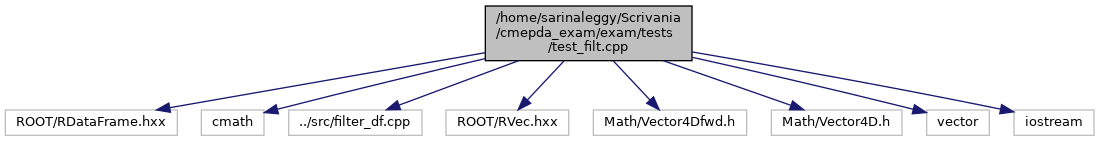
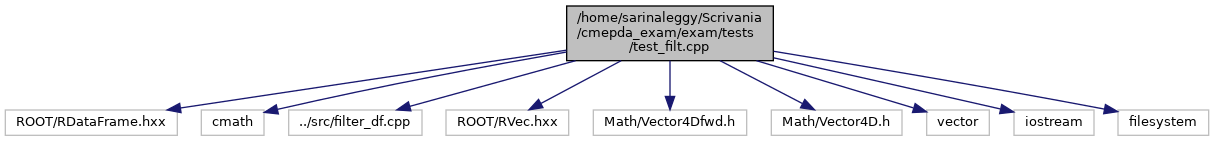
Add files via upload

diff --git a/testing_8py.html b/testing_8py.html
@@ -117,12 +117,12 @@ Variables</h2></td></tr>
 <tr class="memitem:a086a557397f0a26dc6e994aa295721ed"><td class="memItemLeft" align="right" valign="top">string&#160;</td><td class="memItemRight" valign="bottom"><a class="el" href="namespacetesting.html#a086a557397f0a26dc6e994aa295721ed">testing.filepath_MC</a> = &quot;&quot;</td></tr>
 <tr class="memdesc:a086a557397f0a26dc6e994aa295721ed"><td class="mdescLeft">&#160;</td><td class="mdescRight">the filepath of the MC datas to filter  <a href="namespacetesting.html#a086a557397f0a26dc6e994aa295721ed">More...</a><br /></td></tr>
 <tr class="separator:a086a557397f0a26dc6e994aa295721ed"><td class="memSeparator" colspan="2">&#160;</td></tr>
-<tr class="memitem:a0f3fea9abece3e532b90ca426b98b32e"><td class="memItemLeft" align="right" valign="top">string&#160;</td><td class="memItemRight" valign="bottom"><a class="el" href="namespacetesting.html#a0f3fea9abece3e532b90ca426b98b32e">testing.filepath_MC_fil</a> = &quot;&quot;</td></tr>
-<tr class="memdesc:a0f3fea9abece3e532b90ca426b98b32e"><td class="mdescLeft">&#160;</td><td class="mdescRight">the filepath of the MC filtered datas  <a href="namespacetesting.html#a0f3fea9abece3e532b90ca426b98b32e">More...</a><br /></td></tr>
-<tr class="separator:a0f3fea9abece3e532b90ca426b98b32e"><td class="memSeparator" colspan="2">&#160;</td></tr>
-<tr class="memitem:af0ed60cbb464b8539446f8e9a204c663"><td class="memItemLeft" align="right" valign="top">string&#160;</td><td class="memItemRight" valign="bottom"><a class="el" href="namespacetesting.html#af0ed60cbb464b8539446f8e9a204c663">testing.filepath_datas_fil</a> = &quot;&quot;</td></tr>
-<tr class="memdesc:af0ed60cbb464b8539446f8e9a204c663"><td class="mdescLeft">&#160;</td><td class="mdescRight">the filepath of the Run filtered datas  <a href="namespacetesting.html#af0ed60cbb464b8539446f8e9a204c663">More...</a><br /></td></tr>
-<tr class="separator:af0ed60cbb464b8539446f8e9a204c663"><td class="memSeparator" colspan="2">&#160;</td></tr>
+<tr class="memitem:a548220428ce6a715138125d7fa61c197"><td class="memItemLeft" align="right" valign="top">string&#160;</td><td class="memItemRight" valign="bottom"><a class="el" href="namespacetesting.html#a548220428ce6a715138125d7fa61c197">testing.filename_MC_fil</a> = &quot;&quot;</td></tr>
+<tr class="memdesc:a548220428ce6a715138125d7fa61c197"><td class="mdescLeft">&#160;</td><td class="mdescRight">the filename of the MC filtered datas  <a href="namespacetesting.html#a548220428ce6a715138125d7fa61c197">More...</a><br /></td></tr>
+<tr class="separator:a548220428ce6a715138125d7fa61c197"><td class="memSeparator" colspan="2">&#160;</td></tr>
+<tr class="memitem:ab4c983166e7a0246a401a97b238f707e"><td class="memItemLeft" align="right" valign="top">string&#160;</td><td class="memItemRight" valign="bottom"><a class="el" href="namespacetesting.html#ab4c983166e7a0246a401a97b238f707e">testing.filename_datas_fil</a> = &quot;&quot;</td></tr>
+<tr class="memdesc:ab4c983166e7a0246a401a97b238f707e"><td class="mdescLeft">&#160;</td><td class="mdescRight">the filename of the Run filtered datas  <a href="namespacetesting.html#ab4c983166e7a0246a401a97b238f707e">More...</a><br /></td></tr>
+<tr class="separator:ab4c983166e7a0246a401a97b238f707e"><td class="memSeparator" colspan="2">&#160;</td></tr>
 <tr class="memitem:a8ecd6a1ec326d816262fc904f3413245"><td class="memItemLeft" align="right" valign="top">&#160;</td><td class="memItemRight" valign="bottom"><a class="el" href="namespacetesting.html#a8ecd6a1ec326d816262fc904f3413245">testing.choice</a> = input('Do you want to filter your datas? [y/n]')</td></tr>
 <tr class="memdesc:a8ecd6a1ec326d816262fc904f3413245"><td class="mdescLeft">&#160;</td><td class="mdescRight">choice make choosing if the user wants to filter datas or not it can be 'y' if you want to filter your dataframe or 'n' if you don't  <a href="namespacetesting.html#a8ecd6a1ec326d816262fc904f3413245">More...</a><br /></td></tr>
 <tr class="separator:a8ecd6a1ec326d816262fc904f3413245"><td class="memSeparator" colspan="2">&#160;</td></tr>

diff --git a/test__filt_8cpp.html b/test__filt_8cpp.html
@@ -107,12 +107,13 @@ $(document).ready(function(){initNavTree('test__filt_8cpp.html',''); initResizab
 <code>#include &lt;Math/Vector4D.h&gt;</code><br />
 <code>#include &lt;vector&gt;</code><br />
 <code>#include &lt;iostream&gt;</code><br />
+<code>#include &lt;filesystem&gt;</code><br />
 </div><div class="textblock"><div class="dynheader">
 Include dependency graph for test_filt.cpp:</div>
 <div class="dyncontent">
 <div class="center"><img src="test__filt_8cpp__incl.png" border="0" usemap="#a_2home_2sarinaleggy_2Scrivania_2cmepda__exam_2exam_2tests_2test__filt_8cpp" alt=""/></div>
 <map name="a_2home_2sarinaleggy_2Scrivania_2cmepda__exam_2exam_2tests_2test__filt_8cpp" id="a_2home_2sarinaleggy_2Scrivania_2cmepda__exam_2exam_2tests_2test__filt_8cpp">
-<area shape="rect" title="Testing if the filter function works." alt="" coords="485,5,692,61"/>
+<area shape="rect" title="Testing if the filter function works." alt="" coords="567,5,773,61"/>
 <area shape="rect" title=" " alt="" coords="5,109,177,136"/>
 <area shape="rect" title=" " alt="" coords="201,109,264,136"/>
 <area shape="rect" title=" " alt="" coords="289,109,422,136"/>
@@ -121,6 +122,7 @@ Include dependency graph for test_filt.cpp:</div>
 <area shape="rect" title=" " alt="" coords="771,109,902,136"/>
 <area shape="rect" title=" " alt="" coords="927,109,989,136"/>
 <area shape="rect" title=" " alt="" coords="1014,109,1094,136"/>
+<area shape="rect" title=" " alt="" coords="1118,109,1209,136"/>
 </map>
 </div>
 </div><table class="memberdecls">

diff --git a/testing_8py.js b/testing_8py.js
@@ -2,9 +2,9 @@ var testing_8py =
 [
     [ "choice", "testing_8py.html#a8ecd6a1ec326d816262fc904f3413245", null ],
     [ "fil", "testing_8py.html#a82ef2517965f341ef23335cc783dbc62", null ],
+    [ "filename_datas_fil", "testing_8py.html#ab4c983166e7a0246a401a97b238f707e", null ],
+    [ "filename_MC_fil", "testing_8py.html#a548220428ce6a715138125d7fa61c197", null ],
     [ "filepath_datas", "testing_8py.html#abf0165e40096fac3fa89b2d5af9ad276", null ],
-    [ "filepath_datas_fil", "testing_8py.html#af0ed60cbb464b8539446f8e9a204c663", null ],
     [ "filepath_MC", "testing_8py.html#a086a557397f0a26dc6e994aa295721ed", null ],
-    [ "filepath_MC_fil", "testing_8py.html#a0f3fea9abece3e532b90ca426b98b32e", null ],
     [ "testopt", "testing_8py.html#ac0b7ad1a9b9697bb5e5ba511022348ab", null ]
 ];
